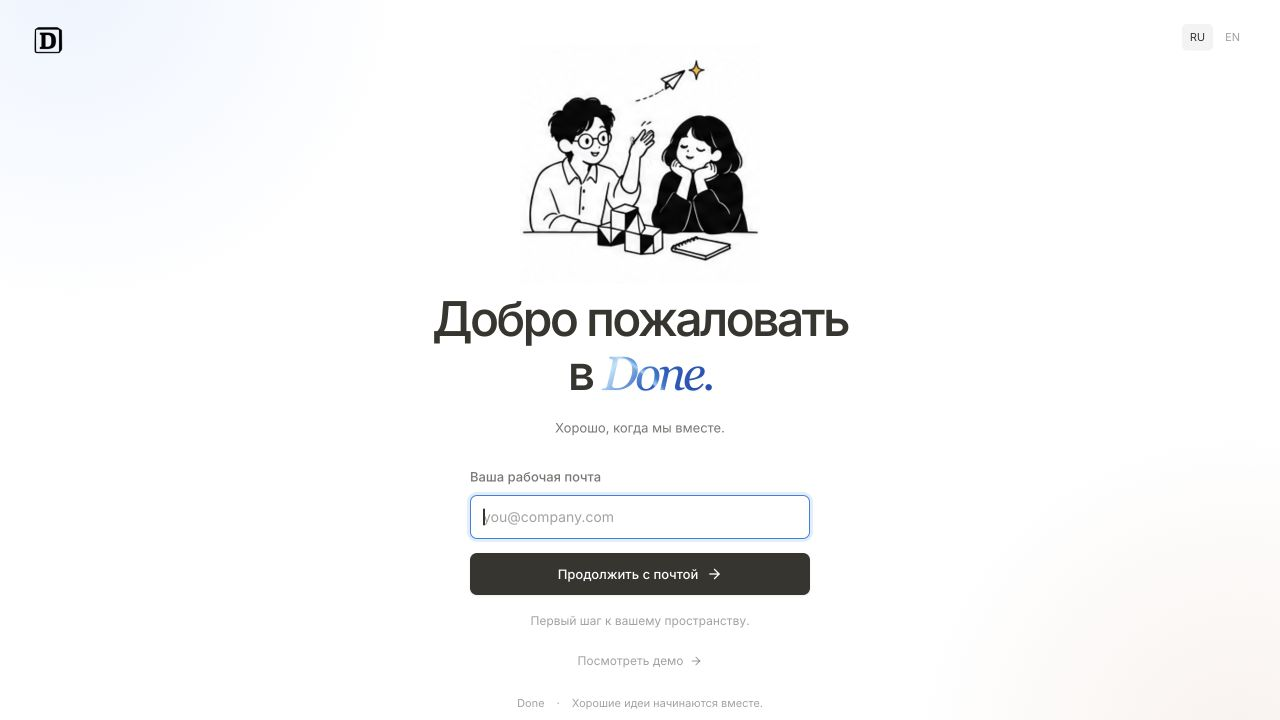
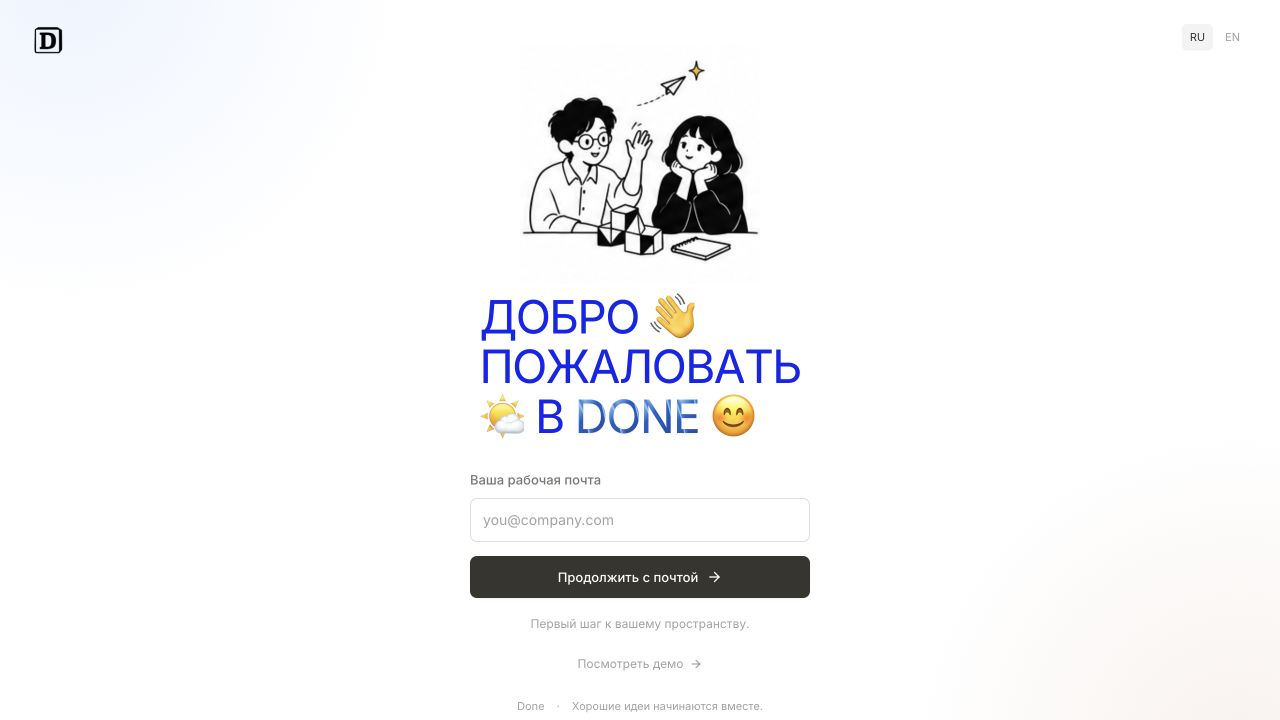
Reveal the welcome greeting with animated letters and emoji

diff --git a/src/components/ui/vertical-cut-reveal.tsx b/src/components/ui/vertical-cut-reveal.tsx
@@ -1,0 +1,140 @@
+import { useMemo } from 'react';
+import { motion, useReducedMotion, type Transition } from 'motion/react';
+import { cn } from '@/lib/utils';
+
+export interface VerticalCutRevealProps {
+  children: string;
+  reverse?: boolean;
+  transition?: Transition;
+  splitBy?: 'words' | 'characters' | 'lines';
+  staggerDuration?: number;
+  staggerFrom?: 'first' | 'last' | 'center' | 'random' | number;
+  containerClassName?: string;
+  wordLevelClassName?: string;
+  elementLevelClassName?: string;
+  reducedMotion?: boolean;
+  /** Applies to the moving text, so gradients never paint the clipping mask. */
+  styleWord?: (word: string, index: number) => string;
+}
+
+interface RevealPart {
+  text: string;
+  elements: string[];
+  offset: number;
+  wordIndex: number;
+  whitespace: boolean;
+}
+
+const spring: Transition = { type: 'spring', stiffness: 200, damping: 21 };
+const graphemes = typeof Intl.Segmenter === 'function' ? new Intl.Segmenter(undefined, { granularity: 'grapheme' }) : null;
+
+function splitCharacters(text: string): string[] {
+  return graphemes ? Array.from(graphemes.segment(text), ({ segment }) => segment) : Array.from(text);
+}
+
+/** Deterministic shuffle: re-renders and hydration keep the same reveal order. */
+function randomOrder(text: string, count: number): number[] {
+  let seed = 2166136261;
+  for (const character of text) seed = Math.imul(seed ^ character.codePointAt(0)!, 16777619) >>> 0;
+  const order = Array.from({ length: count }, (_, index) => index);
+  for (let index = count - 1; index > 0; index--) {
+    seed = (Math.imul(seed, 1664525) + 1013904223) >>> 0;
+    const swapIndex = seed % (index + 1);
+    [order[index], order[swapIndex]] = [order[swapIndex], order[index]];
+  }
+  return order;
+}
+
+/** A vertical spring reveal with whole-word wrapping and one accessible text node. */
+export function VerticalCutReveal({
+  children,
+  reverse = false,
+  transition = spring,
+  splitBy = 'words',
+  staggerDuration = 0.2,
+  staggerFrom = 'first',
+  containerClassName,
+  wordLevelClassName,
+  elementLevelClassName,
+  reducedMotion,
+  styleWord,
+}: VerticalCutRevealProps) {
+  const prefersReducedMotion = useReducedMotion();
+  const reduceMotion = reducedMotion ?? prefersReducedMotion ?? false;
+  const { parts, total, shuffled } = useMemo(() => {
+    const tokens = splitBy === 'lines' ? children.split(/\r?\n/) : (children.match(/\S+|\s+/gu) ?? []);
+    let offset = 0;
+    let wordIndex = 0;
+    const parts: RevealPart[] = tokens.map((text) => {
+      const whitespace = splitBy !== 'lines' && /^\s+$/u.test(text);
+      const elements = whitespace ? [] : splitBy === 'characters' ? splitCharacters(text) : [text];
+      const part = { text, elements, offset, wordIndex, whitespace };
+      offset += elements.length;
+      if (!whitespace) wordIndex++;
+      return part;
+    });
+    return { parts, total: offset, shuffled: randomOrder(children, offset) };
+  }, [children, splitBy]);
+
+  function delayFor(index: number): number {
+    let distance: number;
+    if (staggerFrom === 'first') distance = index;
+    else if (staggerFrom === 'last') distance = total - 1 - index;
+    else if (staggerFrom === 'center') distance = Math.abs((total - 1) / 2 - index);
+    else if (staggerFrom === 'random') distance = shuffled[index];
+    else distance = Math.abs(staggerFrom - index);
+    return (transition.delay ?? 0) + distance * Math.max(0, staggerDuration);
+  }
+
+  return (
+    <span className={cn('flex flex-wrap', splitBy === 'lines' && 'flex-col', containerClassName)}>
+      <span className="sr-only">{children}</span>
+      {parts.map((part, partIndex) => {
+        if (part.whitespace) {
+          return part.text.split(/(\r?\n)/).map((space, spaceIndex) =>
+            /\n/.test(space) ? (
+              <span key={`${partIndex}-${spaceIndex}`} aria-hidden="true" style={{ flexBasis: '100%', height: 0 }} />
+            ) : (
+              <span key={`${partIndex}-${spaceIndex}`} aria-hidden="true" style={{ whiteSpace: 'pre' }}>
+                {space}
+              </span>
+            ),
+          );
+        }
+
+        return (
+          <span
+            key={`${partIndex}-${part.text}`}
+            aria-hidden="true"
+            className={wordLevelClassName}
+            style={{ display: 'inline-flex', whiteSpace: 'pre', flexShrink: 0, minHeight: splitBy === 'lines' ? '1lh' : undefined }}
+          >
+            {part.elements.map((element, elementIndex) => (
+              <span
+                key={elementIndex}
+                className={elementLevelClassName}
+                style={{ display: 'inline-block', overflow: 'hidden', paddingBlock: '0.08em', marginBlock: '-0.08em' }}
+              >
+                {reduceMotion ? (
+                  <span className={styleWord?.(part.text, part.wordIndex)} style={{ display: 'inline-block' }}>
+                    {element || '\u00a0'}
+                  </span>
+                ) : (
+                  <motion.span
+                    className={styleWord?.(part.text, part.wordIndex)}
+                    style={{ display: 'inline-block' }}
+                    initial={{ y: reverse ? '-110%' : '110%' }}
+                    animate={{ y: 0 }}
+                    transition={{ ...transition, delay: delayFor(part.offset + elementIndex) }}
+                  >
+                    {element || '\u00a0'}
+                  </motion.span>
+                )}
+              </span>
+            ))}
+          </span>
+        );
+      })}
+    </span>
+  );
+}

diff --git a/e2e/auth-layout.spec.ts b/e2e/auth-layout.spec.ts
@@ -4,11 +4,15 @@ test('welcome fits a laptop and a phone, respects reduced motion, and keeps one 
   await page.setViewportSize({ width: 1280, height: 720 });
   await page.goto('/');
   await expect(page.getByRole('heading', { name: 'Добро пожаловать в Done' })).toBeVisible();
+  await expect(page.locator('.auth-reveal-line')).toHaveCount(3);
+  await expect(page.locator('.auth-reveal-line').getByText('🌤', { exact: true })).toHaveCount(1);
+  await expect(page.locator('.auth-reveal-line').getByText('👋', { exact: true })).toBeVisible();
+  await expect(page.locator('.auth-reveal-line').getByText('😊', { exact: true })).toBeVisible();
   await expect(page.getByRole('button', { name: 'Посмотреть демо' })).toBeInViewport();
   await expect(page.locator('.auth-artwork')).toHaveCSS('width', '240px');
   await expect(page.getByRole('img', { name: 'Done', exact: true })).toHaveCount(1);
   await expect(page.getByRole('button', { name: /анимацию|Вода|Солнце|Звёзды/ })).toHaveCount(0);
-  await expect(page.locator('.auth-material-water')).toBeVisible();
+  await expect(page.locator('.auth-material-water').first()).toBeVisible();
   await expect(page.locator('.auth-flipbook')).toHaveCSS('animation-duration', '2s');
   // Observe the actual playback, ensuring all 24 sprite cells are displayed.
   const displayedFrames = await page.evaluate(
@@ -33,7 +37,17 @@ test('welcome fits a laptop and a phone, respects reduced motion, and keeps one 
   await page.setViewportSize({ width: 390, height: 844 });
   await page.emulateMedia({ reducedMotion: 'reduce' });
   await expect(page.locator('.auth-flipbook')).toHaveCSS('animation-name', 'none');
-  await expect(page.locator('.auth-material')).toHaveCSS('animation-name', 'none');
+  await expect(page.locator('.auth-material').first()).toHaveCSS('animation-name', 'none');
+  await expect(page.locator('.auth-material').first()).toHaveCSS('transform', 'none');
+  // Reduced motion must reveal every letter immediately, including a mid-reveal language switch.
+  const visibleLetters = await page.locator('.auth-reveal-line [aria-hidden="true"] > span > span').evaluateAll((letters) =>
+    letters.every((letter) => {
+      const text = letter.getBoundingClientRect();
+      const mask = letter.parentElement!.getBoundingClientRect();
+      return text.top >= mask.top - 1 && text.bottom <= mask.bottom + 1;
+    }),
+  );
+  expect(visibleLetters).toBe(true);
   await expect(page.getByRole('button', { name: 'Включить анимацию' })).toHaveCount(0);
   expect(await page.evaluate(() => document.documentElement.scrollWidth <= innerWidth)).toBe(true);
   await expect(page.getByRole('button', { name: 'Продолжить с почтой' })).toBeInViewport();

diff --git a/src/components/WelcomeHeading.tsx b/src/components/WelcomeHeading.tsx
@@ -1,31 +1,27 @@
-import { useEffect, useState } from 'react';
+import { VerticalCutReveal } from './ui/vertical-cut-reveal';
 
-/** Contrasting editorial type; motion never changes the accessible heading. */
+/** One accessible greeting, with staggered letter reveals like the supplied reference. */
 export function WelcomeHeading({ ru, reducedMotion }: { ru: boolean; reducedMotion: boolean }) {
-  const [phrase, setPhrase] = useState(0);
-  useEffect(() => {
-    if (reducedMotion) return;
-    const timer = window.setInterval(() => setPhrase((value) => (value + 1) % 3), 5200);
-    return () => window.clearInterval(timer);
-  }, [reducedMotion]);
-  const lines = ru
-    ? ['Место, где идеи обретают форму.', 'Большие планы начинаются с малого.', 'Хорошо, когда мы вместе.']
-    : ['A little space for your next big idea.', 'Big plans begin with small steps.', 'Better things happen together.'];
+  const lines = ru ? ['ДОБРО 👋', 'ПОЖАЛОВАТЬ', '🌤 В DONE 😊'] : ['WELCOME 👋', '🌤 TO DONE', 'NICE TO MEET YOU 😊'];
   return (
     <div className="auth-heading-block">
       <h1 className="auth-hero-title" aria-label={ru ? 'Добро пожаловать в Done' : 'Welcome to Done'}>
-        <span>{ru ? 'Добро пожаловать' : 'Welcome'}</span>
-        <br />
-        <span>{ru ? 'в ' : 'to '}</span>
-        <em className="auth-material auth-material-water" data-paused={reducedMotion}>
-          Done.
-        </em>
+        {lines.map((line, index) => (
+          <VerticalCutReveal
+            key={`${ru}-${index}`}
+            splitBy="characters"
+            staggerDuration={0.025}
+            staggerFrom={index === 0 ? 'first' : index === 1 ? 'last' : 'center'}
+            reverse={index === 1}
+            transition={{ type: 'spring', stiffness: 200, damping: 21, delay: index * 0.38 }}
+            reducedMotion={reducedMotion}
+            containerClassName="auth-reveal-line"
+            styleWord={(word) => (word === 'DONE' ? 'auth-material auth-material-water' : '')}
+          >
+            {line}
+          </VerticalCutReveal>
+        ))}
       </h1>
-      <div className="auth-changing-copy" aria-hidden="true">
-        <span key={phrase} data-paused={reducedMotion}>
-          {lines[phrase]}
-        </span>
-      </div>
     </div>
   );
 }

diff --git a/src/components/auth.css b/src/components/auth.css
@@ -78,11 +78,31 @@
   width: 100%;
 }
 .auth-hero-title {
-  font-size: clamp(40px, 4.5vw, 58px);
-  line-height: 1.12;
-  letter-spacing: -0.055em;
-  font-weight: 550;
+  display: inline-flex;
+  flex-direction: column;
+  align-items: flex-start;
+  max-width: 100%;
+  text-align: left;
+  font-size: clamp(40px, 4.8vw, 64px);
+  line-height: 1.08;
+  letter-spacing: -0.035em;
+  font-weight: 420;
+  color: #1426ed;
   margin: 0;
+}
+.auth-reveal-line {
+  justify-content: flex-start;
+}
+.auth-hero-title .auth-material {
+  font-family: inherit;
+  font-style: normal;
+  font-weight: inherit;
+  letter-spacing: inherit;
+  padding: 0;
+  margin: 0;
+}
+.dark .auth-hero-title {
+  color: #8da5ff;
 }
 .auth-material {
   display: inline-block;
@@ -352,7 +372,7 @@
     padding: 72px 24px 36px;
   }
   .auth-hero-title {
-    font-size: clamp(35px, 7.8vw, 46px);
+    font-size: clamp(28px, 8.4vw, 44px);
   }
   .auth-heading-block {
     margin-top: 8px;
@@ -403,20 +423,6 @@
 .dark .auth-artwork {
   filter: invert(1);
   mix-blend-mode: screen;
-}
-.auth-changing-copy {
-  margin-top: 18px;
-  height: 20px;
-  font-size: 13px;
-  line-height: 20px;
-  color: var(--text-2);
-}
-.auth-changing-copy span {
-  display: inline-block;
-  animation: auth-arrive 450ms ease-out both;
-}
-.auth-changing-copy span[data-paused='true'] {
-  animation: none;
 }
 @keyframes auth-flipbook {
   0.000000% {
@@ -506,13 +512,9 @@
     width: 260px;
     height: 260px;
   }
-  .auth-changing-copy {
-    font-size: 12px;
-  }
 }
 @media (prefers-reduced-motion: reduce) {
-  .auth-flipbook,
-  .auth-changing-copy span {
+  .auth-flipbook {
     animation: none;
   }
 }
@@ -526,7 +528,7 @@
     height: 240px;
   }
   .auth-hero-title {
-    font-size: 48px;
+    font-size: 46px;
   }
   .auth-heading-block {
     margin-bottom: 28px;

diff --git a/e2e/account.spec.ts b/e2e/account.spec.ts
@@ -9,7 +9,7 @@ test('welcome, registration draft, durable account, project and viewer access', 
   await page.goto('/');
   await expect(page.getByRole('heading', { name: 'Добро пожаловать в Done' })).toBeVisible();
   await expect(page.locator('.auth-flipbook')).toBeVisible();
-  await expect(page.locator('.auth-material')).toHaveClass(/auth-material-water/);
+  await expect(page.locator('.auth-material').first()).toHaveClass(/auth-material-water/);
   await page.screenshot({ path: testInfo.outputPath('welcome.png'), animations: 'disabled' });
   await page.getByLabel('Ваша рабочая почта').fill('owner@example.test');
   await page.getByRole('button', { name: 'Продолжить с почтой' }).click();

diff --git a/docs/design/auth-motion.md b/docs/design/auth-motion.md
@@ -6,9 +6,11 @@ Invitations are previewed via POST /api/auth/invitation with the token in the bo
 
 ## Visual direction
 
-Original editorial ink illustration inspired by the visual language in the user's references: [motion illustrations](https://dribbble.com/shots/23181554-Motion-illustrations-for-Notion), [Notion illustrations](https://dribbble.com/shots/23620415-Notion-illustrations), and contrasting italic type from [21st.dev](https://21st.dev/). No third-party illustration was copied or imported. Done is the product name; the interface does not claim official affiliation.
+Original editorial ink illustration inspired by the visual language in the user's references: [motion illustrations](https://dribbble.com/shots/23181554-Motion-illustrations-for-Notion), [Notion illustrations](https://dribbble.com/shots/23620415-Notion-illustrations), and a water treatment initially inspired by [21st.dev](https://21st.dev/). No third-party illustration was copied or imported. Done is the product name; the interface does not claim official affiliation.
 
 Final asset: `public/illustrations/team-wave-24.png`. Created with the built-in imagegen tool from the initial four-drawing concept. The final sheet contains 24 original drawings in a 6×4 grid, played continuously with CSS step-end over 2 seconds (12 drawings per second). All 24 cells are observed in the browser playback test. There are no pause buttons or material selectors: the heading always uses the water treatment, as requested. System reduced-motion preferences still disable decorative movement. The welcome scene is 320px on a desktop, 240px on a short laptop, and 260px on mobile. Registration, login, invitations and recovery use a separate composition without people: four floating stationery illustrations on the sides, or a compact notebook and paper plane above the form on narrow screens. The corner wordmark is replaced by the existing D logo. Dark mode inverts the ink scene.
+
+The greeting now follows the user's supplied `VerticalCutReveal` reference: uppercase blue type, full-color emoji inside three left-aligned lines, and staggered vertical spring reveals in alternating directions. `src/components/ui/vertical-cut-reveal.tsx` uses the existing `motion/react` dependency, keeps emoji graphemes intact, and immediately reveals text when reduced motion is enabled. DONE retains the water effect. The accessible heading remains one readable phrase; decorative letter splits are hidden from assistive technology.
 
 Only email, name and workspace drafts persist in sessionStorage; passwords and invitation tokens do not. Clear drafts on successful account entry. Account data and membership continue using the existing server/session model.
 
